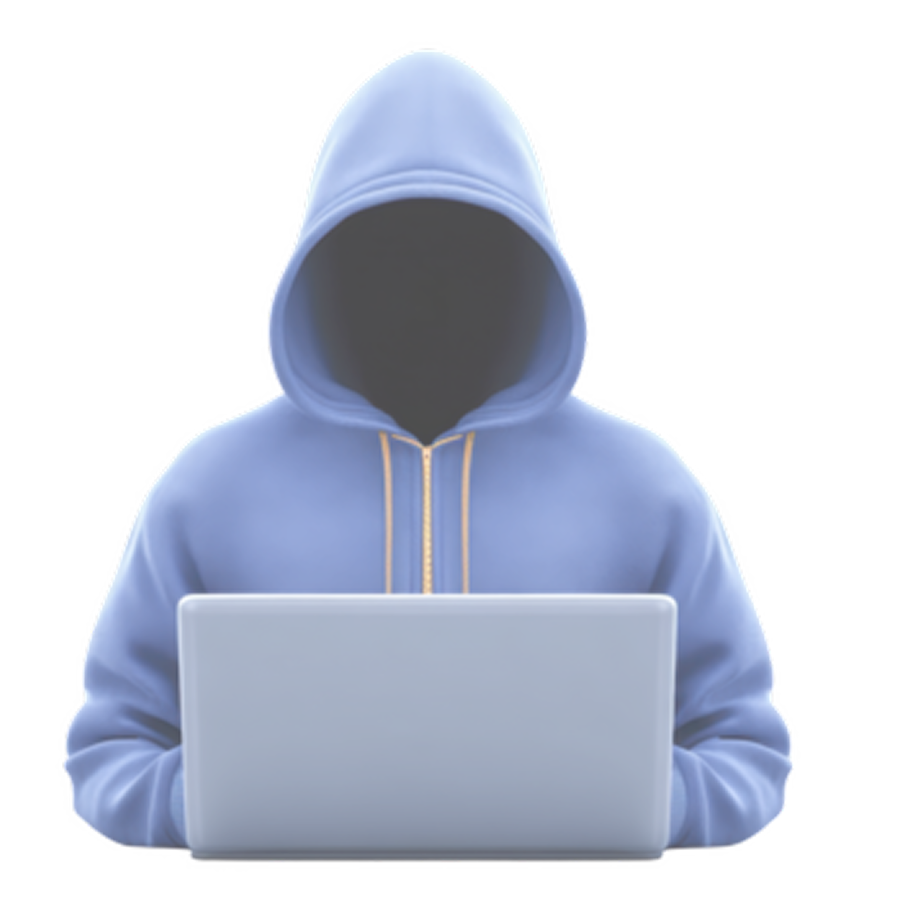
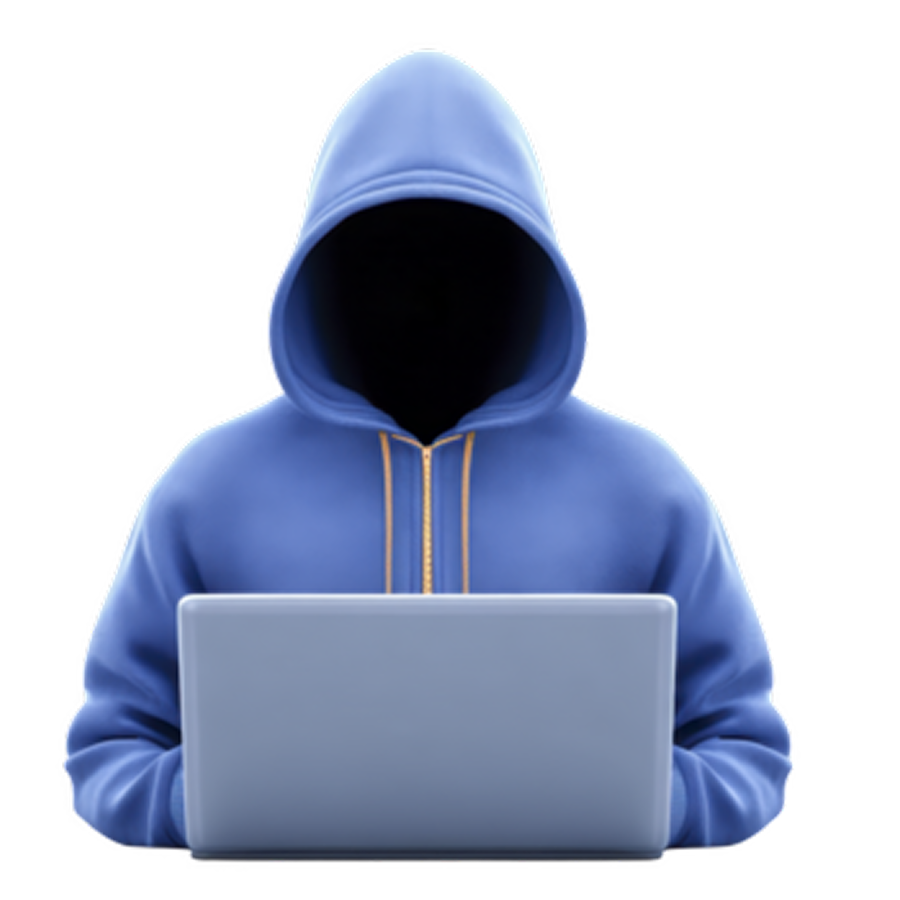
feat

diff --git a/login.css b/login.css
@@ -115,35 +115,97 @@ body {
     -moz-osx-font-smoothing: grayscale;
 }
 
-.hacker img{
-    transform: translateY(40%);
-    bottom: 35%;
-    padding-left: 17%;
-    width: 60%;
-    height: 70%;
+*{
+    margin: 0%;
 }
 
-/* .logo-report img{
-    width: 50%;
-} */
+.cyber-report img{
+    width: 60%;
+    height: 40%;
+}
 
-.container{
+.hacker{
+    position: absolute;
+    width: 55%;
+    left: 50%;
+    transform: translateX(-50%);
+}
+
+.logo-report{
+    padding-left: 10%;
+}
+
+.cyber-report{
+    justify-content: center;
     display: flex;
+    flex-direction: column;
+    padding-left: 10%;
+}
+
+.hackers{
+    display: flex;
+    justify-content: center;
+    align-items: center;
+}
+
+.hackers img{
+    width: 50%;
+    height: 60%;
+}
+
+.principal{
+    z-index: 3;
+    padding-left: 14.4%;
+    opacity: 100%;
+    width: 55%;
+    left: 50%;
+}
+
+
+.sombra-esq{
+    z-index: 1;
+    top: 20%;
+    opacity: 0.18;
+    filter: blur(2px);
+}
+
+.sombra-dir{
+    z-index: 1;
+    top: 20%;
+    opacity: 0.18;
+    filter: blur(2px);
+    
+}
+
+.login-topo{
+    margin-bottom: 25px;
+}
+
+.logo-baikal{
+    width: 250px;
+}
+
+.geral{
     width: 100%;
     height: 100vh;
+    display: flex;
 }
 
+/* .container{
+    display: flex;
+} */
+
 .lado-esq{
-    width: 63%;
+    width: 65%;
     background: #0d1b3d;
-    position: relative;
     overflow: hidden;
 }
 
 .lado-dir{
-    width: 36%;
+    width: 35%;
     background: #f4f4f4;
     display: flex;
+    flex-direction: column;
     justify-content: center;
     align-items: center;
 }
@@ -161,6 +223,7 @@ body {
     text-align: center;
     margin-bottom: 30px;
     color: #1c2745;
+    font-size: 35px;
 }
 
 .login-box form{

diff --git a/login.html b/login.html
@@ -10,13 +10,24 @@
 
 <body>
     <!-- <h1>CYBER REPORT</h1> -->
-    
-    <main class="container">
+    <main>
+        <div class="geral">
         <section class="lado-esq">
-            <img src="IMG/img.png" alt="" class="hacker">
-            <!-- <img src="IMG/Gemini_Generated_Image_rh5rtirh5rtirh5r-removebg-preview 1.png" alt="" class="logo-report"> -->
+            <div class="cyber-report">
+                <img src="IMG/Gemini_Generated_Image_rh5rtirh5rtirh5r-removebg-preview 1.png" alt="" class="logo-report">
+            </div>
+            <div class="hackers">
+                <img src="IMG/img.png" class="sombra-esq">
+                <img src="IMG/img.png" class="sombra-dir">
+            </div>
+            <div class="principal">
+                <img src="IMG/img.png" alt="">
+            </div>
         </section>
         <section class="lado-dir">
+            <div class="login-topo">
+                <img src="IMG/Logo Direito.png" alt=" class="logo-baikal">
+            </div>    
             <div class="login-box">
                 <h2>LOGIN</h2>
                 <form>
@@ -29,6 +40,7 @@
                 </form>
             </div>
         </section>
+        </div>
     </main>
 </body>
 
